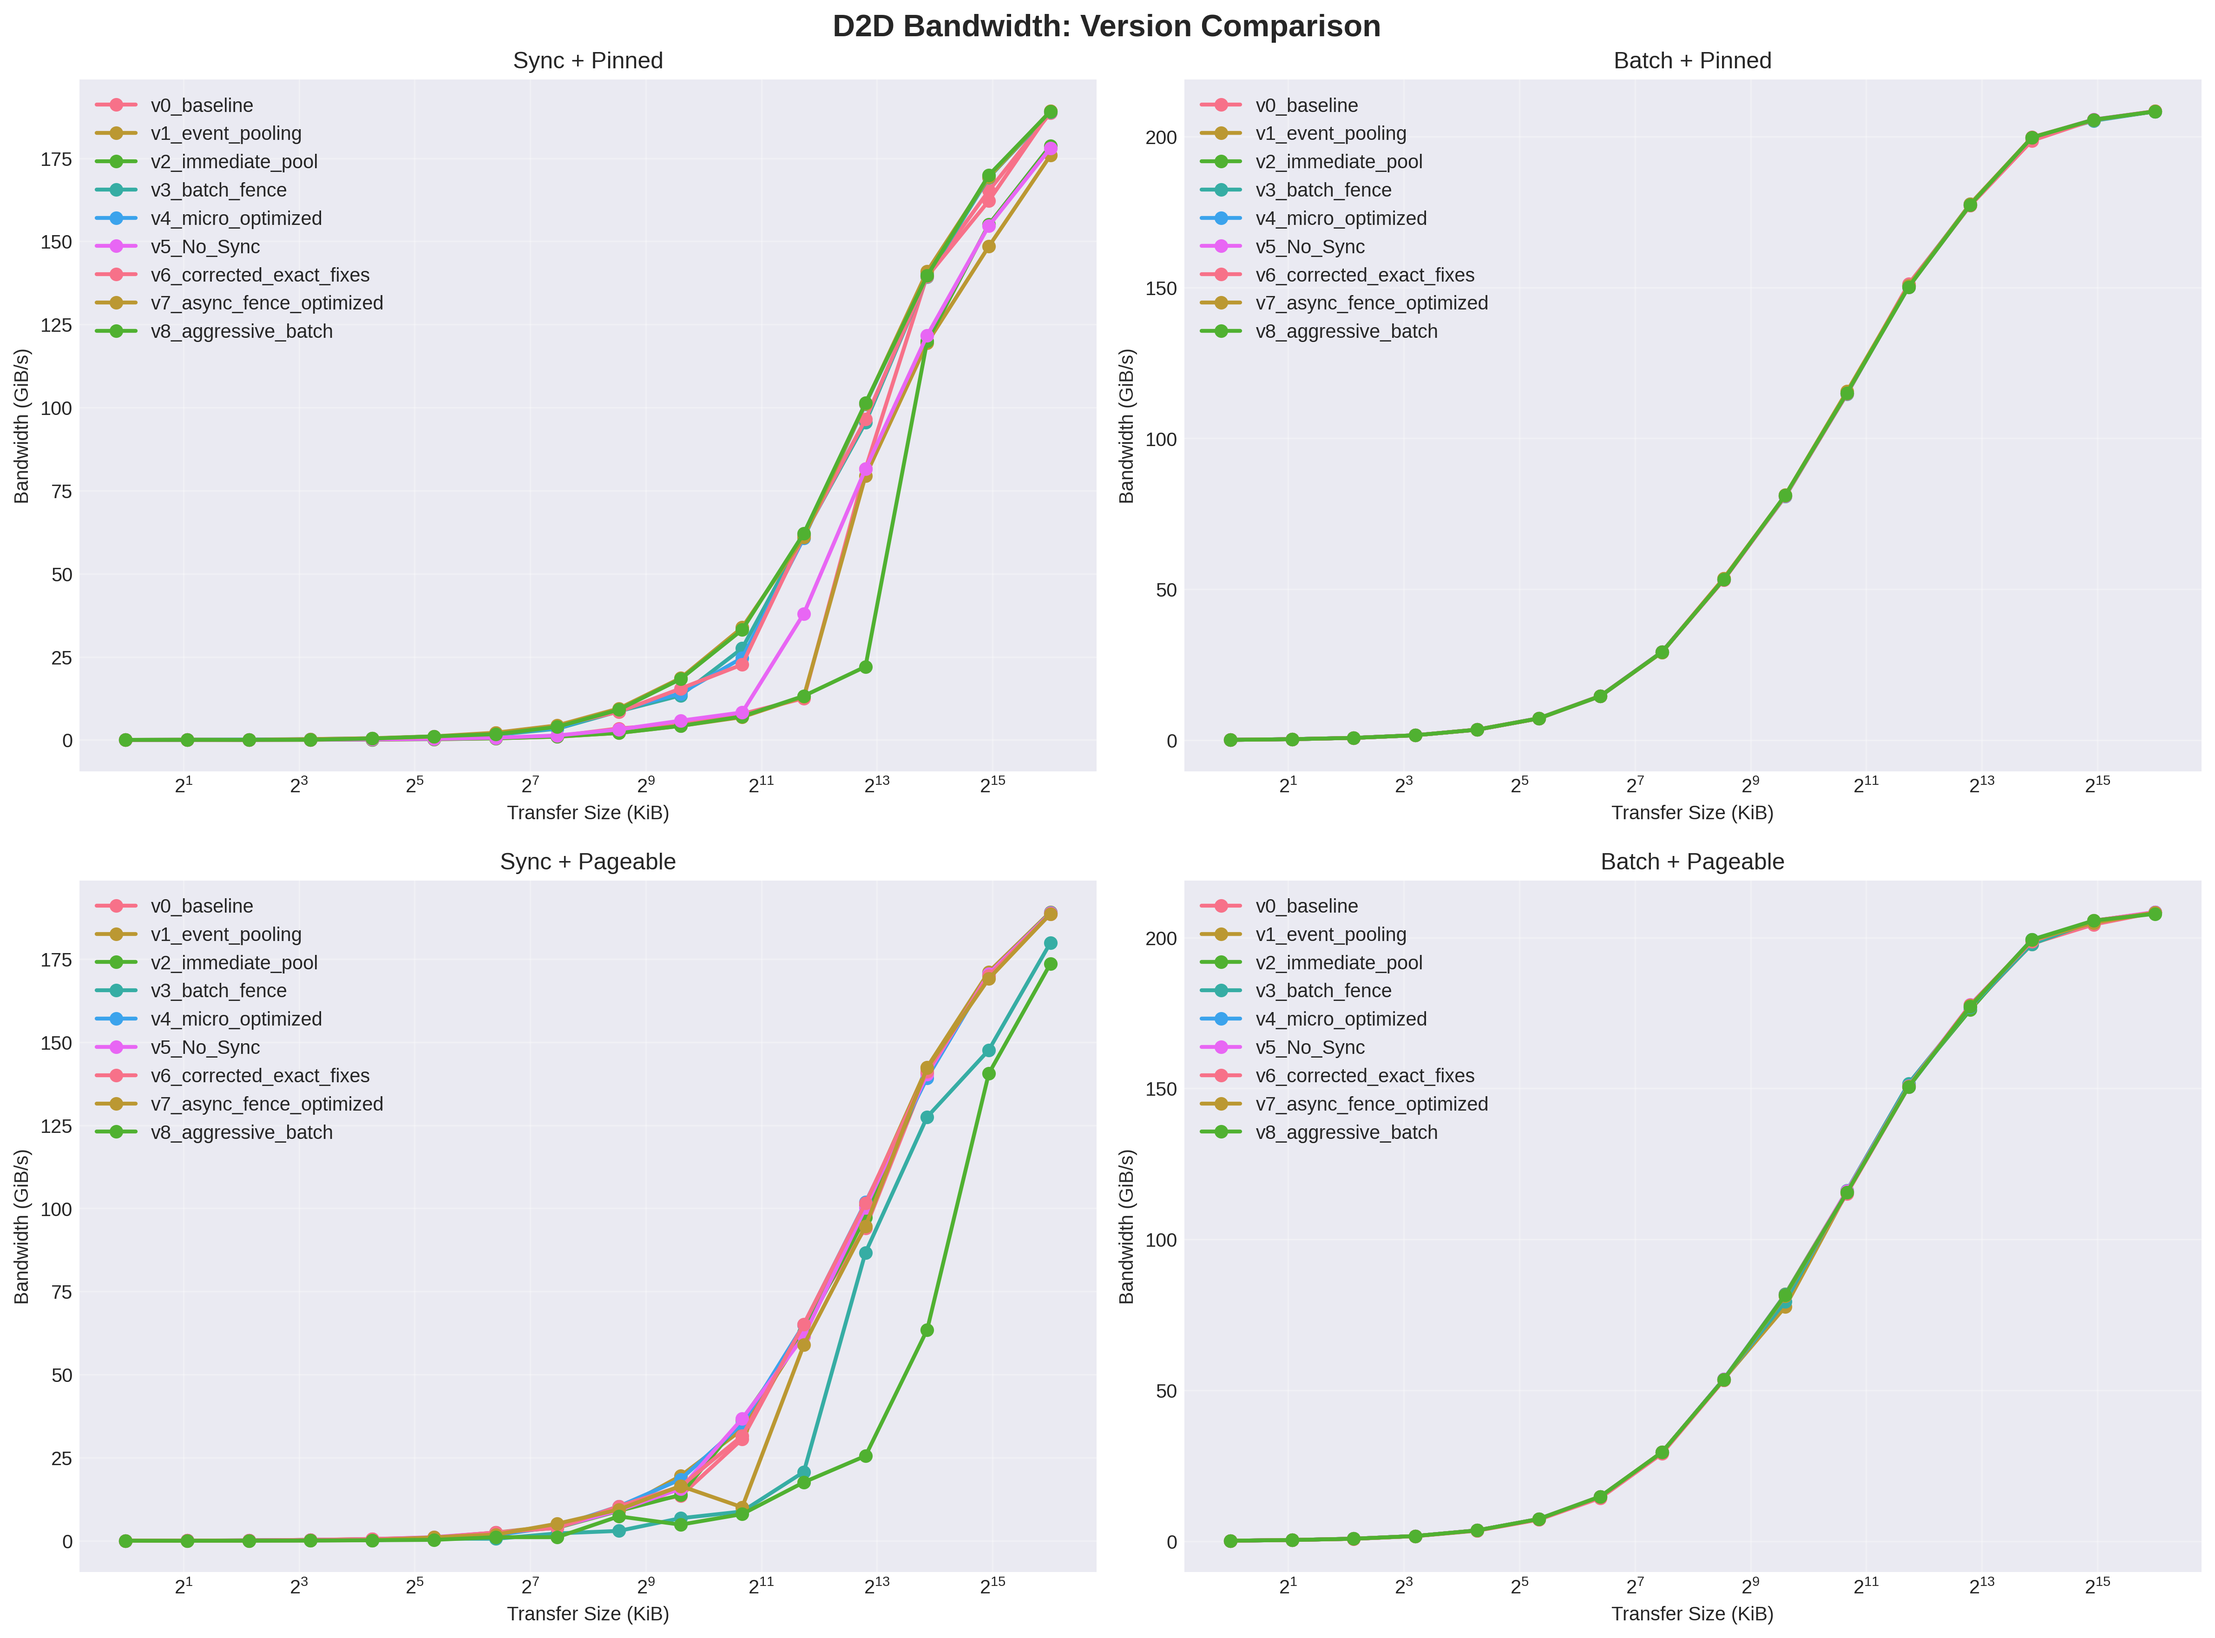
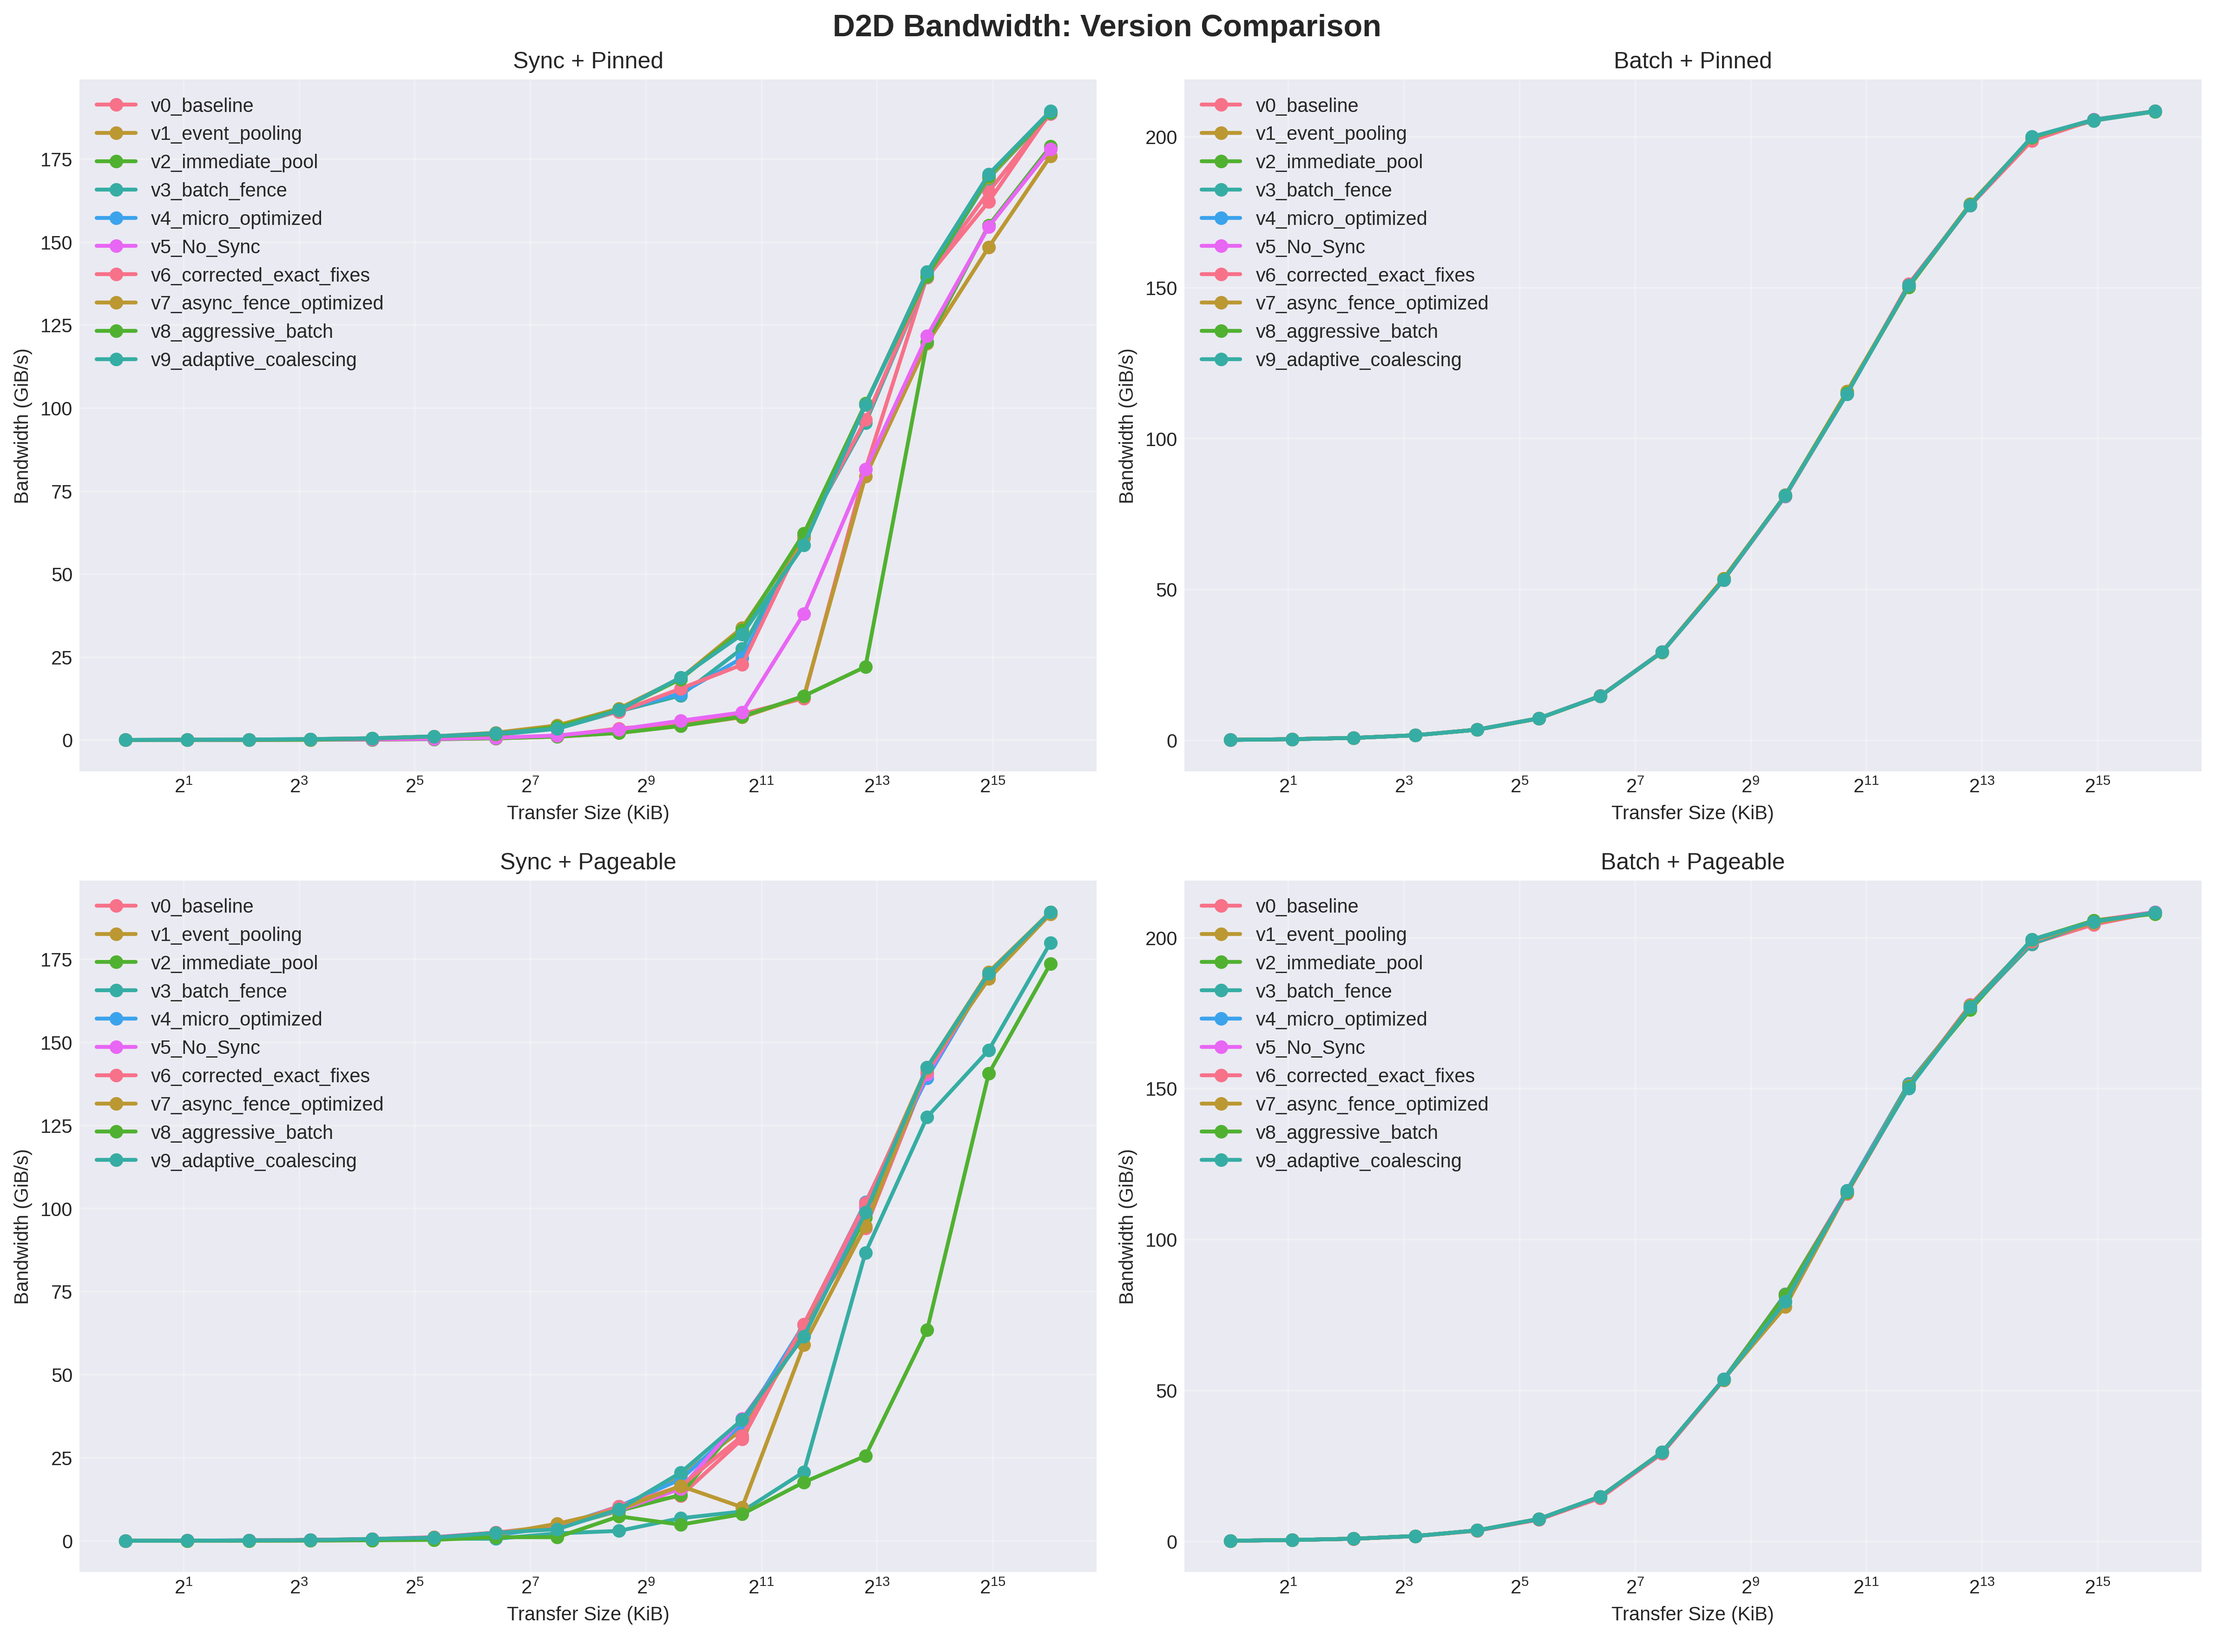
new graphs for current impl

diff --git a/bench/comparison_all/version_comparison.md b/bench/comparison_all/version_comparison.md
@@ -110,3 +110,15 @@
 | v8_aggressive_batch | D2H | Sync | No | 7.28 | 1.94 |
 | v8_aggressive_batch | D2H | Batch | Yes | 10.59 | 9.09 |
 | v8_aggressive_batch | D2H | Batch | No | 10.55 | 8.84 |
+| v9_adaptive_coalescing | D2D | Sync | Yes | 189.44 | 6.16 |
+| v9_adaptive_coalescing | D2D | Sync | No | 189.08 | 6.46 |
+| v9_adaptive_coalescing | D2D | Batch | Yes | 208.35 | 41.18 |
+| v9_adaptive_coalescing | D2D | Batch | No | 208.25 | 41.51 |
+| v9_adaptive_coalescing | H2D | Sync | Yes | 10.22 | 4.12 |
+| v9_adaptive_coalescing | H2D | Sync | No | 7.83 | 2.09 |
+| v9_adaptive_coalescing | H2D | Batch | Yes | 10.28 | 8.22 |
+| v9_adaptive_coalescing | H2D | Batch | No | 10.25 | 8.10 |
+| v9_adaptive_coalescing | D2H | Sync | Yes | 10.53 | 4.28 |
+| v9_adaptive_coalescing | D2H | Sync | No | 7.95 | 2.20 |
+| v9_adaptive_coalescing | D2H | Batch | Yes | 10.59 | 9.15 |
+| v9_adaptive_coalescing | D2H | Batch | No | 10.55 | 8.96 |
